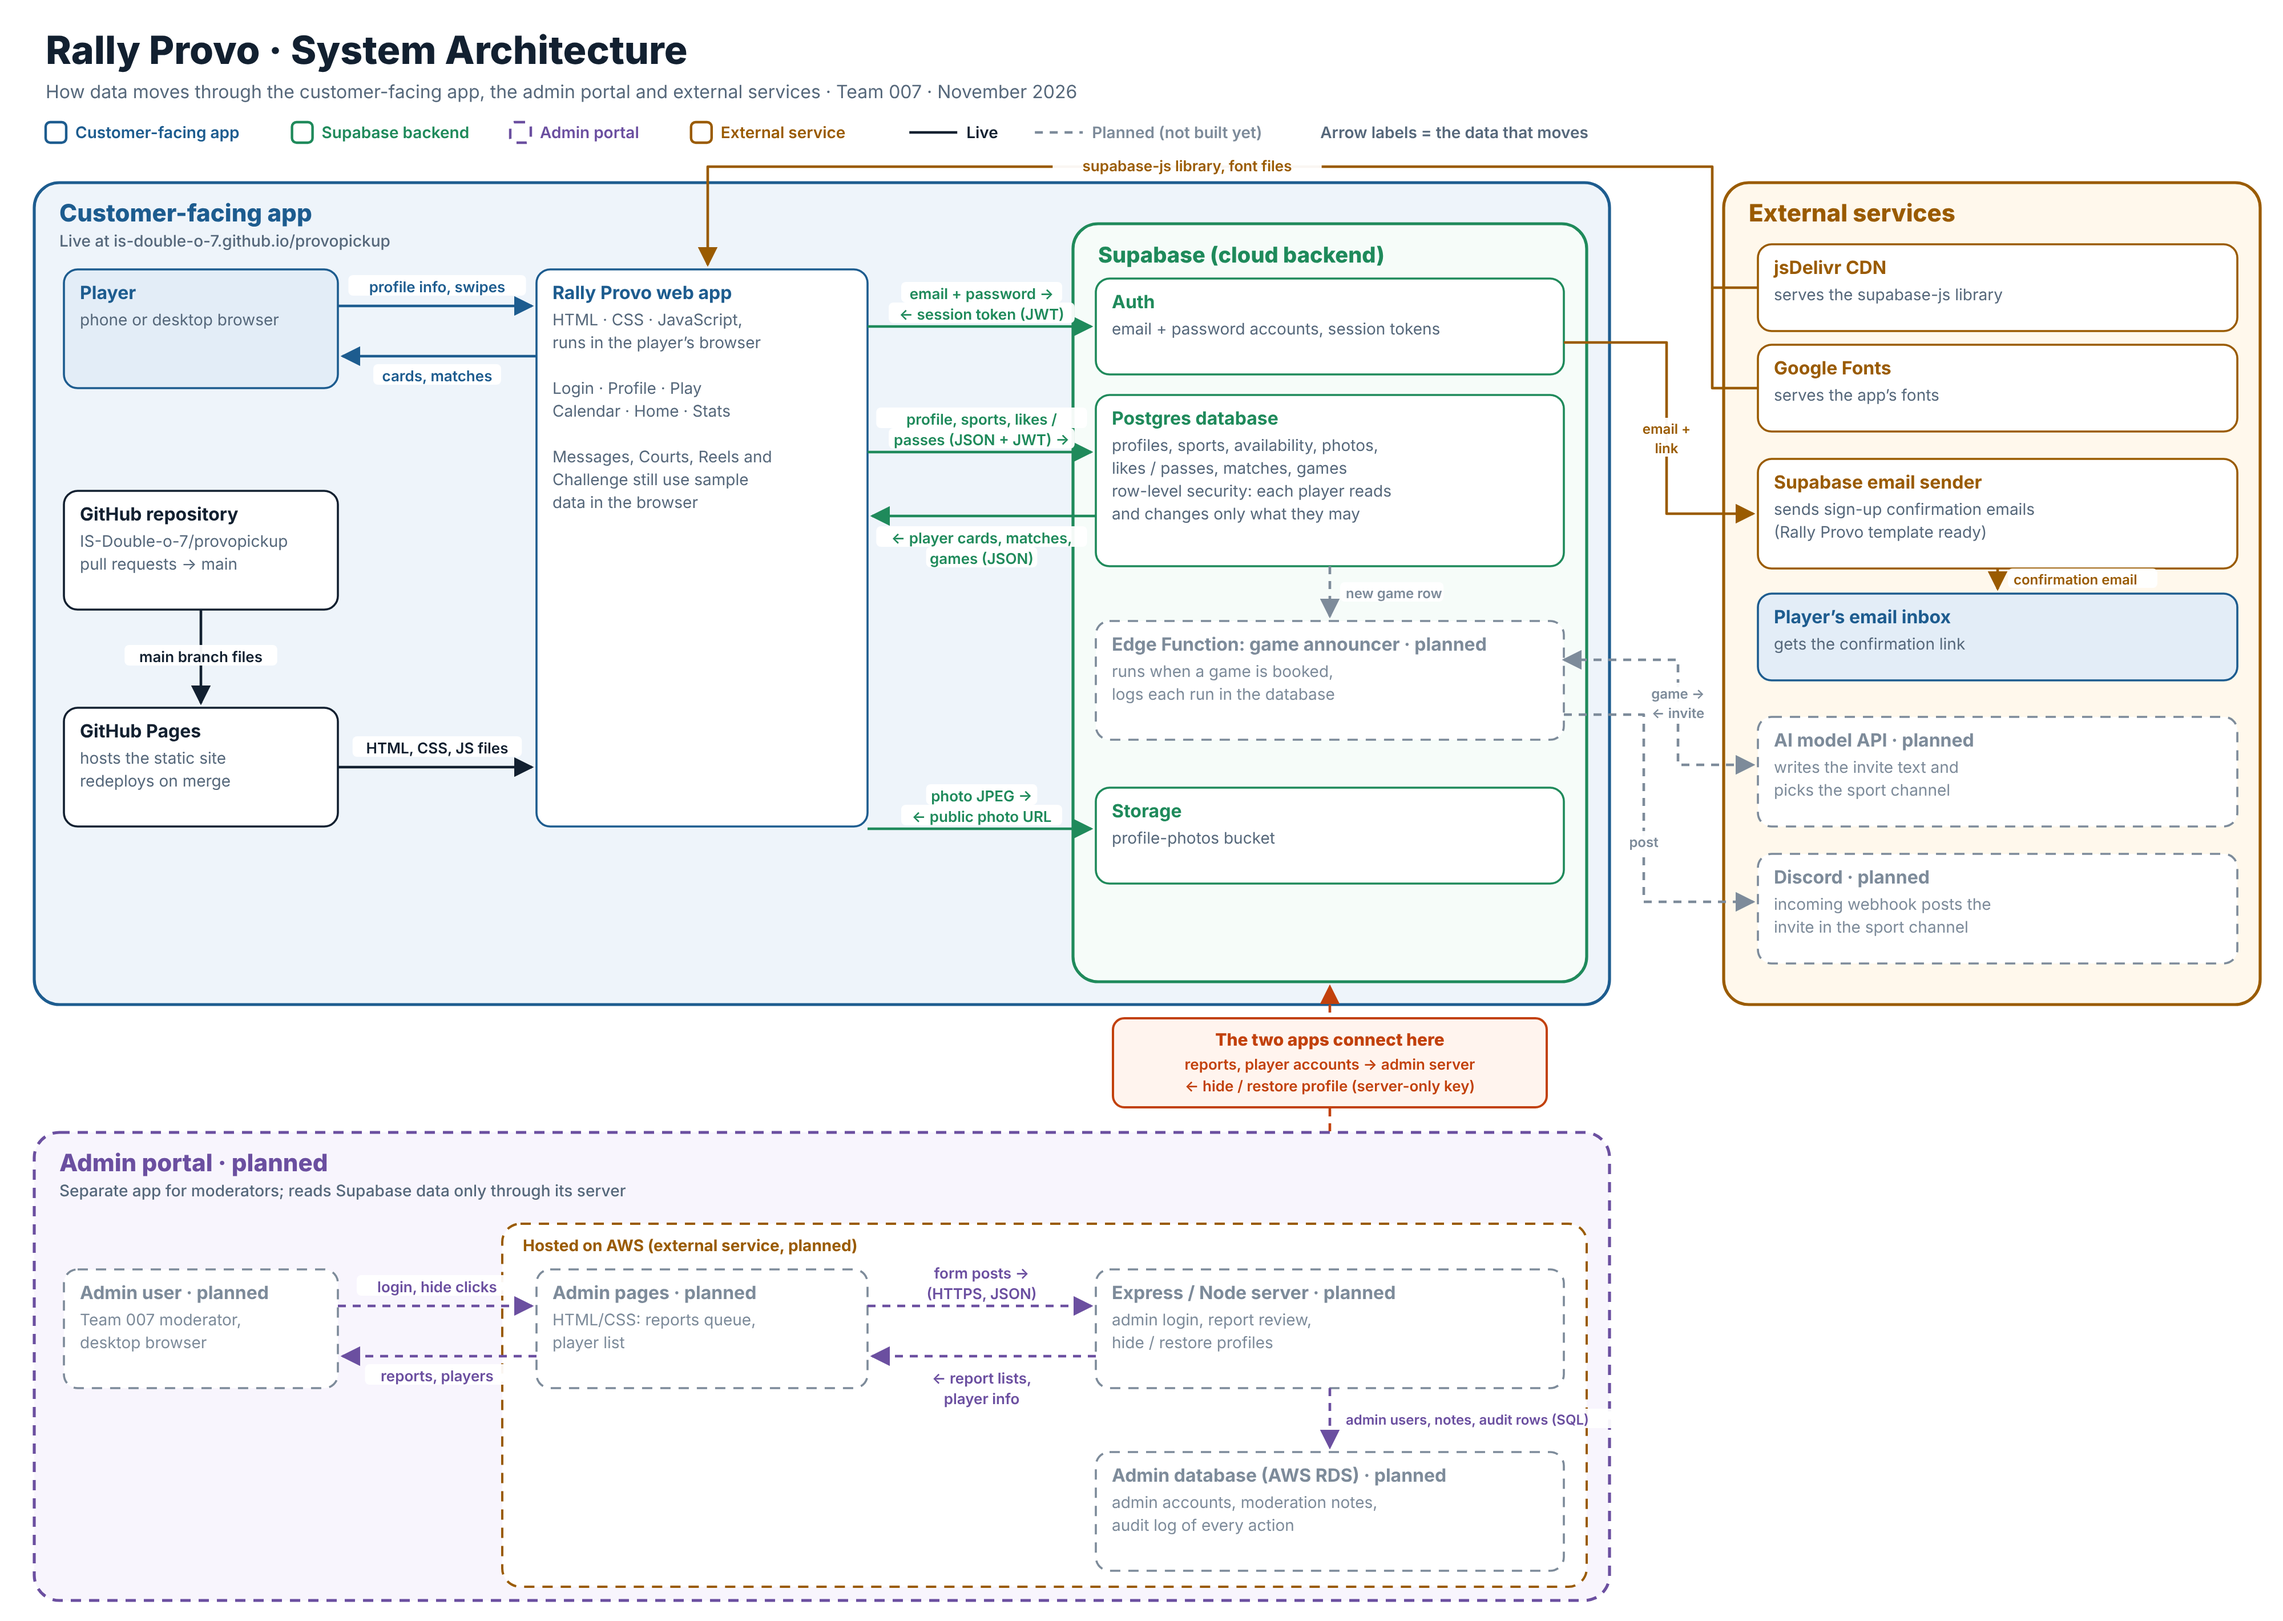
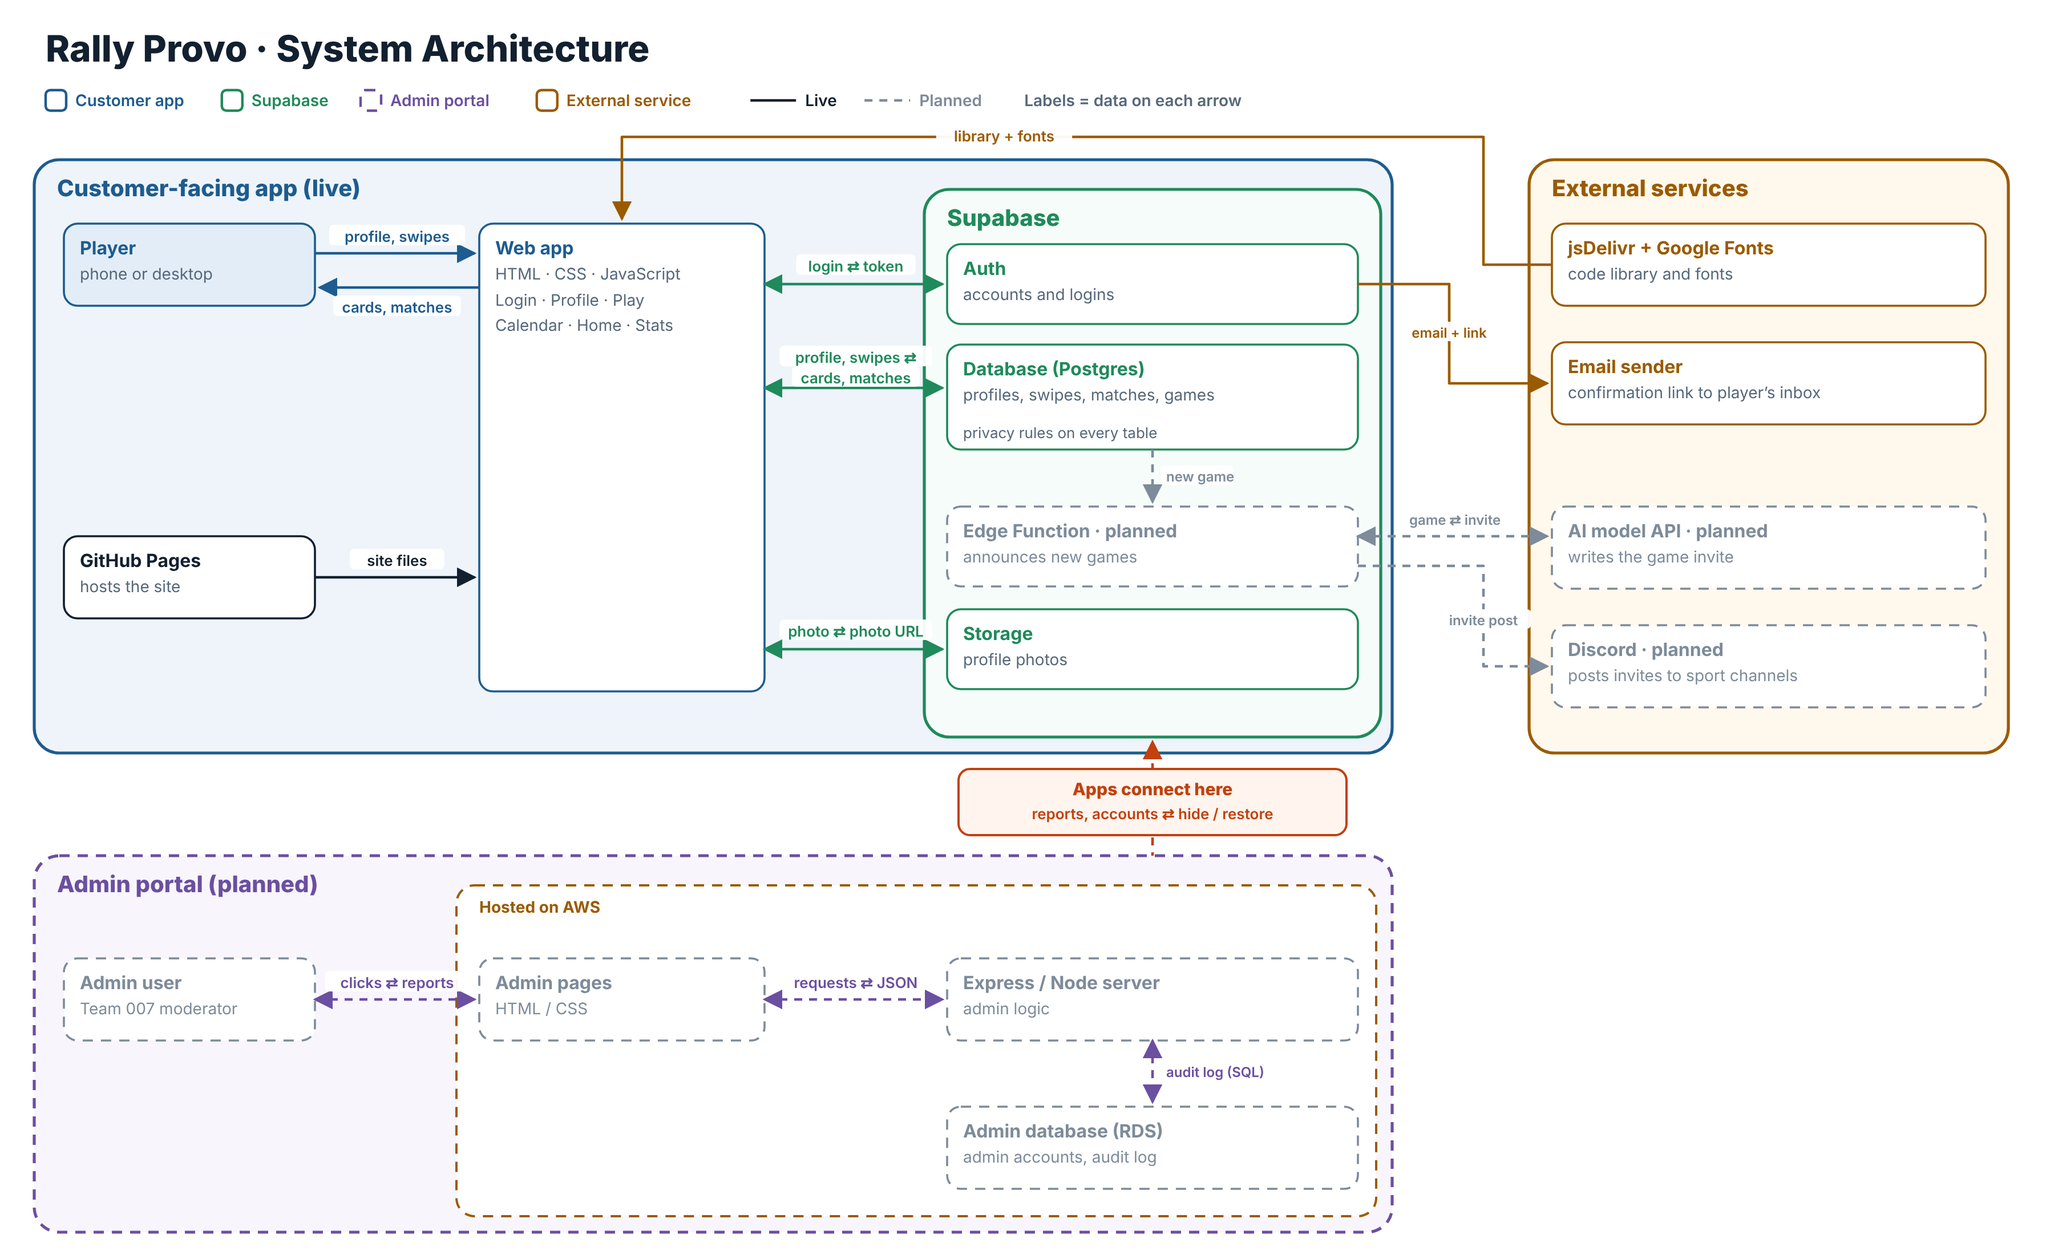
Simplify the architecture diagram
Same coverage (customer app, admin portal on AWS, external services
including the AI workflow, data on every arrow, where the apps connect),
with fewer boxes and shorter labels.

Claude-Session: https://claude.ai/code/session_01EDPrMiuCuvGHXjmgGUNzv3

diff --git a/README.md b/README.md
@@ -82,28 +82,21 @@ the code exists. Last reviewed October 30, 2026 against `main` and the live site
 
 ![Rally Provo system architecture](docs/architecture.png)
 
-How data moves through both parts of the product. Solid lines are live today; dashed
-lines are planned and not built yet. Each arrow is labeled with the data it carries.
-The source is `docs/architecture.svg`.
+Solid lines are live; dashed lines are planned. Each arrow is labeled with the data it
+carries. The source is `docs/architecture.svg`.
 
-- **Customer-facing app (live).** The web app is static HTML, CSS and JavaScript. It is
-  built from the GitHub repository and served by GitHub Pages, and runs in the player's
-  browser. It talks to **Supabase**: Auth for accounts and session tokens, Postgres for
-  profiles, swipes, matches and games (row-level security on every table), and Storage
-  for profile photos.
-- **Admin portal (planned).** Moderators use HTML/CSS pages served by an
-  **Express/Node server on AWS**, which keeps its own database (AWS RDS) for admin
-  accounts and an audit log.
-- **Where the two apps connect.** The admin server reads reports and player accounts from
-  the same Supabase database and can hide or restore a profile. It uses a server-only key
-  that never reaches a browser. This is a proposal; the admin portal's scope still needs
-  team approval.
-- **External services.** Live: jsDelivr (supabase-js library), Google Fonts, Supabase's
-  email sender (sign-up confirmation). Planned: the **AI workflow automation**. When a
-  game is booked, a Supabase Edge Function sends the game details to an AI model API,
-  which writes the invite and picks the sport channel, and the function posts it to
-  **Discord** through an incoming webhook. This is the team's leading candidate and is
-  not yet approved.
+- **Customer-facing app (live):** a static HTML/CSS/JavaScript web app hosted on GitHub
+  Pages, using Supabase for logins (Auth), data (Postgres with row-level security) and
+  profile photos (Storage).
+- **Admin portal (planned):** admin pages (HTML/CSS) and an Express/Node server with its
+  own database (RDS), hosted on AWS.
+- **Where the apps connect (proposed):** the admin server reads reports and player
+  accounts from Supabase and can hide or restore profiles, using a server-only key.
+- **External services:** jsDelivr and Google Fonts (code library and fonts) and
+  Supabase's email sender (confirmation link) are live. The AI workflow is planned: a
+  Supabase Edge Function sends each new game to an AI model API, which writes an invite,
+  and the function posts it to Discord. This is the team's leading candidate, not yet
+  approved.
 
 ---
 
